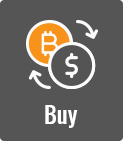
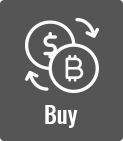
Fixing UX/UI

Changed region(s): [[0.1951, 0.1418, 0.8049, 0.6809], [0.6098, 0.1135, 0.8049, 0.2837]]

diff --git a/js/constants/language/EN.js b/js/constants/language/EN.js
@@ -159,7 +159,7 @@ let _langTags = {
 	BITCOIN_ADDRESS: "Bitcoin Address",
 	CREDIT_CARD: "Card",
 	CREDIT_CARD_SELECT: "Credit Card",
-	CREDIT_CARD_HOLDER: "Holder's Name",
+	CREDIT_CARD_HOLDER: "Cardholder's name",
 	CREDIT_CARD_NUMBER: "Card Number",
 	CREDIT_CARD_CVV: "CVV",
 	CREDIT_CARD_EXPIRATION: "Expiration Date",
@@ -438,8 +438,8 @@ let _langTags = {
 	BUY_CRYPTOS_BUTTON_BUY: "Buy",
 	BUY_CRYPTOS_BUTTON_GETADDRESS: "Get Address",
 	BUY_CRYPTOS_BUTTON_SAVECC: "Save card",
-	BUY_CRYPTOS_BUTTON_COPY: "Copy text",
-	BUY_CRYPTOS_TITLE_COPIED: "Copied text",
+	BUY_CRYPTOS_BUTTON_COPY: "Copy",
+	BUY_CRYPTOS_TITLE_COPIED: "Copied!",
 	BUY_CRYPTOS_BUTTON_RETURN: "Return",
 	BUY_CRYPTOS_TRANSACTION_APPROVED: "Transaction approved",
 	BUY_CRYPTOS_TRANSACTION_REJECTED: "Transaction rejected",
@@ -452,10 +452,10 @@ let _langTags = {
 	BUY_CRYPTOS_AMOUNT: "Amount:",
 	BUY_CRYPTOS_TIME: "Time's ticking!",
 	BUY_CRYPTOS_HURRY: "Why  the hurry?",
-	BUY_CRYPTOS_HOVER_FUND_OPTION: 'With this method you will deposit using your crypto balance.<br/>Available <strong>{customerBalance} {cryptoCurrencyCode}</strong>',
-	BUY_CRYPTOS_HOVER_BUY_OPTION: 'With this method you can purchase cryptos using your credit cards (only VISA).<br/>Available <strong>{customerBalance} {cryptoCurrencyCode}</strong>',
-	BUY_CRYPTOS_HOVER_DEPOSIT_OPTION: "Deposit using external wallet",
-	BUY_CRYPTOS_HOVER_DEFAULT_OPTION: 'Available <strong>{customerBalance} {cryptoCurrencyCode}</strong>',
+	BUY_CRYPTOS_HOVER_FUND_OPTION: 'Fund your account using available balance.<br/>Available balance: <strong>{customerBalance} {cryptoCurrencyCode}</strong>',
+	BUY_CRYPTOS_HOVER_BUY_OPTION: 'Here you can purchase bitcoins using your VISA card if you don\'t have any at all. These will be reflected under "available balance".<br/>Available balance: <strong>{customerBalance} {cryptoCurrencyCode}</strong>',
+	BUY_CRYPTOS_HOVER_DEPOSIT_OPTION: "Deposit using funds from an external wallet.",
+	BUY_CRYPTOS_HOVER_DEFAULT_OPTION: 'Available balance: <strong>{customerBalance} {cryptoCurrencyCode}</strong>',
 	BUY_CRYPTOS_TITLE_AMOUNT: 'Deposit Amount',
 	BUY_CRYPTOS_TITLE_AVAILABLE: 'Available',
 	BUY_CRYPTOS_BTN_DEPOSIT_WITH: 'Deposit with {cryptoCurrencyName}',
@@ -464,11 +464,12 @@ let _langTags = {
 	BUY_CRYPTOS_TOOLTIP_CRONO: "This BTC transaction price is only valid for 15:00 minutes. After that, the transaction price will change, and you may receive a different amount than expected. Your funds should be available within 30 minutes of making the transfer from your wallet.",
 	BUY_CRYPTOS_TRY_AGAIN: "Try Again",
 	BUY_CRYPTOS_ERROR_TEXT: "Something went wrong, we’ve taken note of this, in the mean-time, please click “try again” to generate a new address and QR code.",
-	BUY_CRYPTOS_PROMOCODE: "Enter a promo code (optional)",
+	BUY_CRYPTOS_PROMOCODE: "Enter a promo code",
 	BUY_CRYPTO_MIN_LIMIT: "Please increase the amount and try again",
 	BUY_CRYPTO_MAX_LIMIT: "Please decrease the amount and try again",
 	BUY_CRYPTO_TICKET_APPROVED: 'Transaction Approved.',
 	BUY_CRYPTO_TICKET_REJECTED: 'Transaction Rejected.',
+	BUY_CRYPTO_CARDHOLDER_NAME: "Cardholder's name must match the one provided in the \"About You\" section.",
 
 	// Wallet
 	WALLET: 'Wallet',

diff --git a/js/components/commonComponents/cryptos/BuyCrypto.js b/js/components/commonComponents/cryptos/BuyCrypto.js
@@ -30,6 +30,7 @@ let BuyCrypto = React.createClass({
 		coinDirect.message = '';
 		coinDirect.success = "";
 		this.setState({coinDirectData: coinDirect});
+		this.setState({cryptoAmountEstimated: 0});
 
 		return this.parameters();
 	},
@@ -79,7 +80,8 @@ let BuyCrypto = React.createClass({
 	rate(value){
 		let ratedAmount = "" + (value / this.state.coinDirectData.rate);
 		let str = ratedAmount.substr(0, 7);
-		$("#ratedAmount").val(str);
+		this.setState({buyCryptos:{amount: value}});
+		this.setState({cryptoAmountEstimated: str})
 	},
 
 	buyCryptos(e){
@@ -110,7 +112,7 @@ let BuyCrypto = React.createClass({
 		let currentAmount = parseInt(this.state.buyCryptos.amount) || 0;
 		let minAmount = parseInt(this.state.coinDirectData.buyLimits.minAmount);
 		let maxAmount = parseInt(this.state.coinDirectData.buyLimits.maxAmount);
-
+		let cryptoAmountEstimated = this.state.cryptoAmountEstimated;
 		let options = [];
 
 		let selectedCardNumber = '';
@@ -212,17 +214,17 @@ let BuyCrypto = React.createClass({
 											/>
 											<span className="buy-crypto-min">
 												<div>
-												Min:${this.state.coinDirectData.buyLimits.minAmount}
+												Min:${minAmount}
 												</div>
 											</span>
 											<span className="buy-crypto-max">
 												<div>
-												Max:${this.state.coinDirectData.buyLimits.minAmount}
+												Max:${maxAmount}
 												</div>
 											</span>
 
 											{(() =>{
-												if(this.state.startBuy && currentAmount < minAmount){
+												if(currentAmount < minAmount && currentAmount != 0){
 													return (
 														<div className="alert alert-danger buy-crypto-limit-alert" role="alert">
 															<i className="fa fa-thumbs-o-down red"></i>
@@ -230,7 +232,7 @@ let BuyCrypto = React.createClass({
 														</div>
 													);
 												}
-												if(this.state.startBuy && maxAmount < currentAmount){
+												if(maxAmount < currentAmount){
 													return (
 														<div className="alert alert-danger buy-crypto-limit-alert" role="alert">
 															<i className="fa fa-thumbs-o-down red"></i>
@@ -250,7 +252,7 @@ let BuyCrypto = React.createClass({
 										</div>
 										<div className="col-sm-10">
 											<div className="buy-crypto-disabled-input"></div>
-											<input type="text" value="" disabled="disabled" id="ratedAmount"/>
+											<input type="text" value={cryptoAmountEstimated} disabled="disabled" id="ratedAmount"/>
 										</div>
 									</div>
 								</div>

diff --git a/js/components/contentComponents/ProcessorCryptoInfo.js b/js/components/contentComponents/ProcessorCryptoInfo.js
@@ -70,7 +70,6 @@ let ProcessorCryptoInfo = React.createClass({
 	 */
 	getInitialState(){
 		UIService.buyCryptoIsActive();
-		UIService.buyCryptoGetCustomerBalance('BTC');
 		this.setState({hover: ''});
 		return this.refreshLocalState();
 	},
@@ -146,20 +145,17 @@ let ProcessorCryptoInfo = React.createClass({
 		this.setProcessorLimits();
 
 		const buyOption = (
-			<div id="buyOption" onClick={this.loadBuy} onMouseEnter={this.onHover} onMouseLeave={this.onLeave} className="center-block text-center content-crypto-buy">
-				<img src="/images/buyCrypto/boton_buy.png" alt="Buy"></img>
+			<div id="buyOption" onClick={this.loadBuy} onMouseEnter={this.onHover} onMouseLeave={this.onLeave} className="center-block text-center content-crypto-img content-crypto-buy">
 			</div>
 		);
 
 		const fundOption = (
-			<div id="fundOption" onMouseEnter={this.onHover} onMouseLeave={this.onLeave} onClick={this.loadFund} className="center-block text-center content-crypto-fund">
-				<img src="/images/buyCrypto/boton_fund.png" alt="Fund"></img>
+			<div id="fundOption" onMouseEnter={this.onHover} onMouseLeave={this.onLeave} onClick={this.loadFund} className="center-block text-center content-crypto-img content-crypto-fund">
 			</div>
 		);
 
 		const depositOption = (
-			<div id="depositOption" onMouseEnter={this.onHover} onMouseLeave={this.onLeave} onClick={this.startTransaction} className="center-block text-center content-crypto-deposit">
-				<img src="/images/buyCrypto/boton_deposit.png" alt="Deposit"></img>
+			<div id="depositOption" onMouseEnter={this.onHover} onMouseLeave={this.onLeave} onClick={this.startTransaction} className="center-block text-center content-crypto-img content-crypto-deposit">
 			</div>
 		);
 

diff --git a/css/style.css b/css/style.css
@@ -1268,8 +1268,11 @@ input:checked + .slider:before{
 }
 
 .crypto-fund-background{
-    background: url("../images/buyCrypto/background.png") 75%;
-    height: 400px;
+    background: url("../images/buyCrypto/background.png") 75% no-repeat;
+    height: 423px;
+    margin-top: -10px;
+    margin-left: 6px;
+    margin-right: 7px;
 }
 
 .crypto-box-content{
@@ -1685,6 +1688,36 @@ input:checked + .slider:before{
     margin-top: 25px;
 }
 
+.content-crypto-img{
+    width: 123px;
+    height: 141px;
+    background-repeat: no-repeat;
+}
+
+.content-crypto-deposit{
+    background-image: url("/images/buyCrypto/boton_deposit.png");
+}
+
+.content-crypto-deposit:hover{
+    background-image: url("/images/buyCrypto/boton_deposit_hover.png");
+}
+
+.content-crypto-buy{
+    background-image: url("/images/buyCrypto/boton_buy.png");
+}
+
+.content-crypto-buy:hover{
+    background-image: url("/images/buyCrypto/boton_buy_hover.png");
+}
+
+.content-crypto-fund{
+    background-image: url("/images/buyCrypto/boton_fund.png");
+}
+
+.content-crypto-fund:hover{
+    background-image: url("/images/buyCrypto/boton_fund_hover.png");
+}
+
 /**
  * Wallet style
  */
@@ -1707,8 +1740,15 @@ input:checked + .slider:before{
     border-radius: 5px 5px 0px 0px;
 }
 
+.wallet-tablinks a {
+    text-decoration: none !important;
+}
+
 .wallet-active {
-    background: #1A335A !important;
+    background: #000 !important;
+}
+
+.wallet-active a {
     color: #FFF !important;
 }
 

diff --git a/js/components/commonComponents/cryptos/CreditCardRegister.js b/js/components/commonComponents/cryptos/CreditCardRegister.js
@@ -153,7 +153,7 @@ let CreditCardRegister = React.createClass({
 			return true
 		}
 
-		CashierActions.showUserMessage(translate('CARDHOLDER_NAME', 'ERROR'));
+		CashierActions.showUserMessage(translate('BUY_CRYPTO_CARDHOLDER_NAME', 'ERROR'));
 
 		return false;
 	},
@@ -272,8 +272,8 @@ let CreditCardRegister = React.createClass({
 												id="ccName"
 												ref="ccName"
 												validate="isText"
-												placeholder={translate('CREDIT_CARD_HOLDER', 'Holder\'s Name')}
-												title={translate('CREDIT_CARD_HOLDER', 'Holder\'s Name')}
+												placeholder={translate('CREDIT_CARD_HOLDER')}
+												title={translate('CREDIT_CARD_HOLDER')}
 												onChange={this.changeValue.bind(null, 'extra3', '', 0)} value={this.state.payAccount.extra3}
 												require
 											/>
@@ -427,7 +427,6 @@ let CreditCardRegister = React.createClass({
 														type="text"
 														placeholder={translate('CREDIT_CARD_ZIP', 'Postal Code')}
 														title={translate('CREDIT_CARD_ZIP', 'Postal Code')}
-														validate={zipValidation}
 														value={this.state.payAccount.zip}
 														onChange={this.changeValue.bind(null, 'zip', '', 0)}
 														require

diff --git a/js/components/commonComponents/cryptos/tickets/ApprovedTicket.js b/js/components/commonComponents/cryptos/tickets/ApprovedTicket.js
@@ -10,14 +10,14 @@ let CryptoTicketApproved = React.createClass({
 	render (){
 		return (
 			<div className="crypto-fund-background">
-				<div className="row" style={{paddingTop: "45px"}}>
+				<div className="row" style={{paddingTop: "58px"}}>
 					<div className="col-md-6 col-md-offset-3">
 						<div className="buy-crypto-section buy-crypto-section-large">
-							<div style={{marginTop: '25px'}} className="col-md-2 col-md-offset-5">
+							<div style={{marginTop: '25px', marginLeft: '182px'}} className="col-md-2 col-md-offset-5">
 								<img src="../../../../../images/buyCrypto/icon_approved.png" alt="Approved"/>
 							</div>
 							<div className="col-md-12">
-								<p className="buy-crypto-ticket-text">
+								<p style={{fontSize: '25px'}} className="buy-crypto-ticket-text">
 									{translate('BUY_CRYPTO_TICKET_APPROVED')}
 								</p>
 							</div>

diff --git a/js/components/commonComponents/cryptos/tickets/RejectedTicket.js b/js/components/commonComponents/cryptos/tickets/RejectedTicket.js
@@ -14,11 +14,11 @@ let CryptoTicketRejected = React.createClass({
 				<div className="row" style={{paddingTop: "45px"}}>
 					<div className="col-md-6 col-md-offset-3">
 						<div className="buy-crypto-section buy-crypto-section-large">
-							<div style={{marginTop: '25px'}} className="col-md-2 col-md-offset-5">
+							<div style={{marginTop: '25px', marginLeft: '182px'}} className="col-md-2 col-md-offset-5">
 								<img src="../../../../../images/buyCrypto/icon_rejected.png" alt="Approved"/>
 							</div>
 							<div className="col-md-12">
-								<p className="buy-crypto-ticket-text">
+								<p style={{fontSize: '25px'}} className="buy-crypto-ticket-text">
 									{translate('BUY_CRYPTO_TICKET_REJECTED')}
 								</p>
 							</div>

diff --git a/js/services/OnResponseService.js b/js/services/OnResponseService.js
@@ -4,6 +4,7 @@ import {ApplicationService} from './ApplicationService'
 import {TransactionService} from './TransactionService'
 import actions from '../constants/Actions'
 import Cashier from '../constants/Cashier'
+import {UIService} from './UIService'
 
 /**
  * this class received all responses from cashier and trigger and action depends of the response
@@ -35,6 +36,10 @@ class OnResponseService {
 
 			case actions.PROCESS_GET_ADDRESS_RESPONSE:
 				TransactionService.getCryptoAddressResponse(data);
+				break;
+
+			case actions.IS_ACTIVE_BUY_CRYPTO:
+				UIService.buyCryptoGetCustomerBalance('BTC');
 				break;
 
 			case actions.GET_BITCOIN_TRANSACTION_RESPONSE:

diff --git a/js/components/WalletContent.js b/js/components/WalletContent.js
@@ -15,7 +15,6 @@ let WalletContent = React.createClass({
 	 */
 	getInitialState(){
 		UIService.buyCryptoIsActive();
-		UIService.buyCryptoGetCustomerBalance('BTC');
 		this.state = {buyTransactions: Cashier.WALLET_DEFAULT_TAB}
 
 		return this.refreshLocalState();
